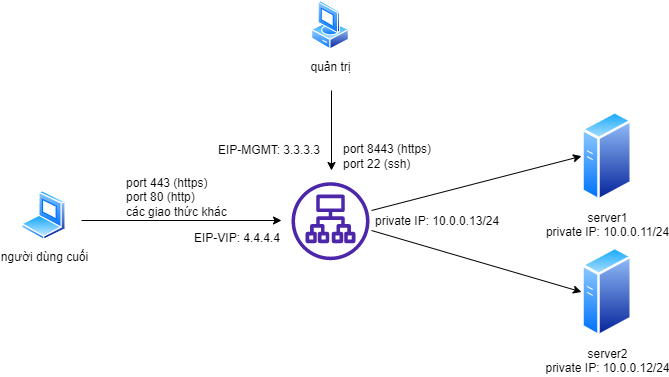
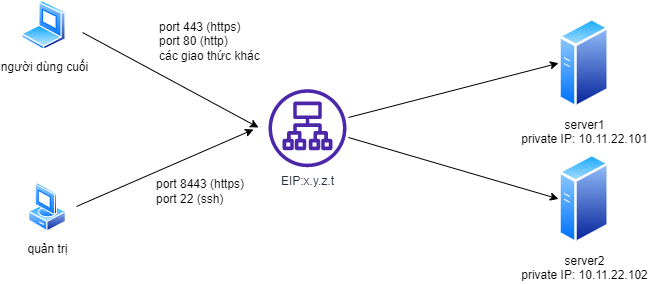
a

diff --git a/init/README.md b/init/README.md
@@ -33,7 +33,7 @@ Mô hình này phù hợp với trường hợp khách hàng sử dụng các th
 
 ## Hướng dẫn cấu hình
 
-### Khởi tạo máy ảo F5 BIG-IP
+### Khởi tạo máy ảo F5 BIG-IP - với trường hợp Single NIC
 Đặt nhập vào Viettel Cloud Console, tạo mới Server với các thông tin như sau:
 
 Thông tin chung về Region, tên server, loại máy chủ, cấu hình, loại hệ điều hành, version. Yêu cầu tối thiểu 8 vCPU, 16GB RAM:
@@ -128,11 +128,6 @@ Thiết lập múi giờ (tùy chọn, khuyến nghị nên đặt để tiện 
 tmsh modify /sys ntp timezone Asia/Saigon
 ```
 
-Thiết lập hostname (tùy chọn, khuyến nghị nên đặt để tiện định danh theo quy ước chung)
-```
-tmsh modify /sys global-settings hostname bigip1.viettelcloud.vn
-```
-
 Cuối cùng, **lưu lại cấu hình** bằng lệnh:
 ```
 tmsh save /sys config
@@ -141,6 +136,133 @@ tmsh save /sys config
 Thoát khỏi phiên làm việc SSH bằng lệnh `exit`.
 
 Như vậy, máy ảo F5 BIG-IP đã sẵn sàng để cấu hình các dịch vụ ứng dụng: cân bằng tải, tường lửa ứng dụng, phòng chống tấn công DOS layer 7.
+
+
+### Hướng dẫn khởi tạo và cấu hình F5 BIG-IP trong trường hợp có 2 NIC
+#### Tạo trước địa chỉ IP Private và EIP
+
+Sử dụng Viettel Cloud Console, chọn dịch vụ **Network**. Vào mục **Subnet** --> **Private IP** --> **Thêm Private IP**. Sau đó nhập vào địa chỉ IP Private muốn tạo (lưu ý rằng địa chỉ này không được trùng với các địa chỉ khác đã được cấp phát/gán trong cùng Subnet đó)
+
+Tương tự, trong phần dịch vụ **Network**, vào mục **Elastic IP** --> **Cấp phát Elastic IP**
+
+Ghi nhớ 2 địa chỉ này (ví dụ ở đây là 117.1.28.13 cho địa chỉ EIP và 10.11.22.101 cho địa chỉ Private IP)
+
+#### Tạo máy ảo F5 BIG-IP với phần tùy chọn "Cấu hình mạng",
+Chọn **Enable Elastic IP**, chọn **Elastic IP** là địa chỉ vừa tạo ở bước trước
+
+Chọn **Enable Private IP**, chọn đúng VPC, Subnet và **Interface** là địa chỉ IP Private vừa tạo ở bước trước.
+
+![](./create_server_5_multinic.png "")
+
+Các phần khác làm tương tự như cho trường hợp Single NIC
+
+#### Cấu hình cơ bản cho F5 BIG-IP trong trường hợp 2 NIC
+
+Sau khi máy ảo khởi động xong, truy cập qua SSH bằng tài khoản root:
+
+```
+ssh root@<địa chỉ IP quản trị>
+```
+Sau đó thực hiện chuỗi các lệnh sau:
+```
+tmsh modify sys db provision.1nicautoconfig value disable
+tmsh modify sys db provision.1nic value forced_enable
+tmsh modify sys httpd ssl-port 8443
+tmsh modify net self-allow defaults add { tcp:8443 }
+tmsh save sys config
+```
+Khởi động lại máy ảo bằng lệnh `reboot`
+
+Đợi cho máy ảo hoàn tất việc khởi động lại, tiếp tục thực hiện các bước sau trên giao diện Bash shell qua SSH với tài khoản root:
+
+Kiểm tra danh sách các Interface bằng lệnh `tmsh list net interface`
+
+Kết quả tương tự như sau:
+```
+net interface 1.0 {
+    if-index 48
+    mac-address fa:16:3e:86:ea:1e
+    media-fixed 10000T-FD
+    media-max auto
+    mtu 9198
+}
+net interface 1.1 {
+    if-index 64
+    mac-address fa:16:3e:3a:a8:31
+    media-fixed 10000T-FD
+    media-max auto
+    mtu 9198
+}
+net interface mgmt {
+    if-index 32
+    mac-address fa:16:3e:86:ea:1e
+    media-active 100TX-FD
+}
+```
+Cần đối chiếu địa chỉ MAC của 1.0 và mgmt xem có trùng với MAC của interface gắn với EIP không (xem trên Viettel Cloud Console)
+
+Cần đối chiếu địa chỉ MAC của 1.1 xem có trùng với MAC của interface gắn với Private IP không (xem trên Viettel Cloud Console)
+
+Nếu sai thì xem lại quá trình tạo máy ảo, tạo IPs và không nên tiếp tục thực hiện các bước bên dưới.
+
+Nếu đúng, tiếp tục thực hiện các bước sau:
+
+Kích hoạt license bằng lệnh `SOAPLicenseClient --basekey <license key>`
+
+Đợi quá trình kích hoạt license hoàn tất, tiếp tục thực hiện:
+
+Tạo VLAN public và gán EIP vào VLAN này:
+
+```
+tmsh create net vlan public_vlan interfaces add { 1.0 { untagged } }
+tmsh create net self public_ip address 117.1.28.13/23 vlan public_vlan allow-service default
+```
+
+Tạo VLAN private và gán Private IP vào VLAN này:
+```
+tmsh create net vlan private_vlan interfaces add { 1.1 { untagged } }
+tmsh create net self private_ip address 10.11.22.101/24 vlan private_vlan
+```
+
+Kiểm tra xem default route đang là địa chỉ nào bằng lệnh:
+```
+tmsh show sys management-route
+```
+Kết quả tương tự như sau:
+```
+sys management-route default {
+    description configured-by-dhcp
+    gateway 117.1.29.254
+    network default
+}
+```
+Lấy địa chỉ này gán cho BIG-IP bằng lệnh:
+```
+tmsh create net route default gw 117.1.29.254
+```
+
+Các bước sau tương tự như đối với trường hợp Single-NIC:
+```
+tmsh modify sys global-settings mgmt-dhcp disabled
+tmsh modify auth user admin shell bash
+tmsh modify /sys db systemauth.disablerootlogin value true
+tmsh modify sys global-settings gui-setup disabled
+tmsh modify /sys http auth-pam-validate-ip off
+tmsh modify /sys global-settings hostname bigip1.viettelcloud.vn
+tmsh modify /sys ntp timezone Asia/Saigon
+```
+
+Có thể bật tắt các module tính năng nếu muốn, ví dụ bật module ASM (cho dịch vụ WAF/Layer 7 DDOS):
+```
+tmsh modify sys provision asm level nominal
+```
+
+Cuối cùng, lưu cấu hình lại và khởi động lại:
+```
+tmsh save sys config
+reboot
+```
+(Lưu ý: từ phiên đăng nhập SSH tiếp theo, sử dụng tài khoản admin thay vì root)
 
 ## Liên hệ hỗ trợ
 Yêu cầu hỗ trợ kỹ thuật xin gửi đến địa chỉ: techsupport@viettelcloud.vn
